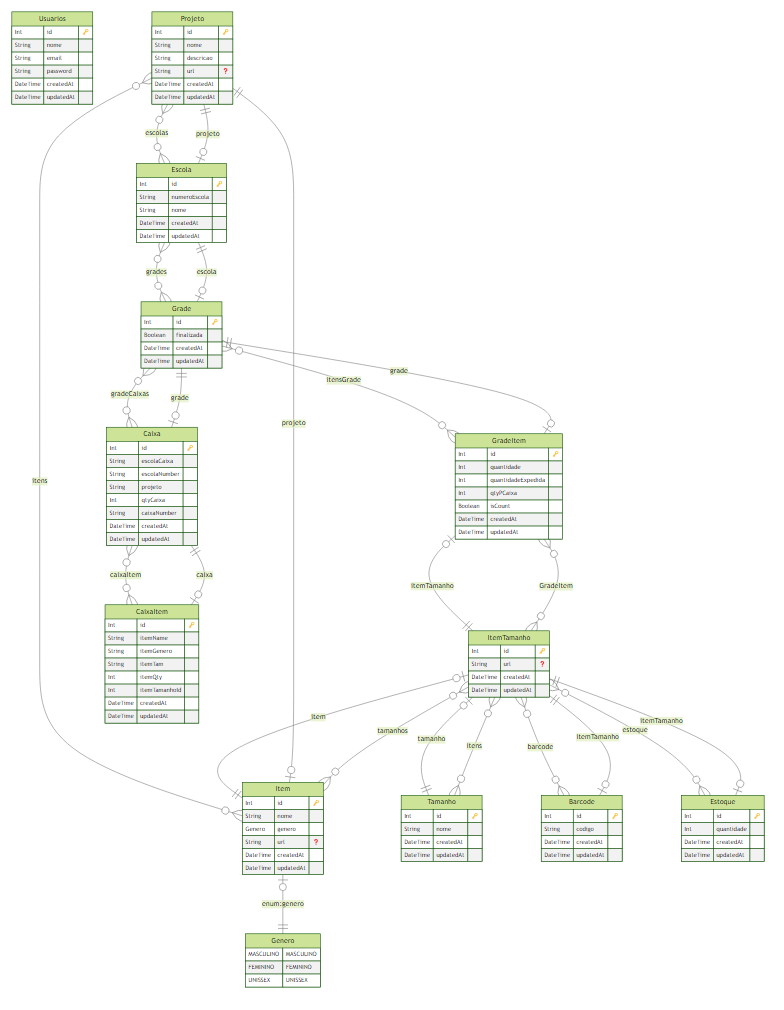
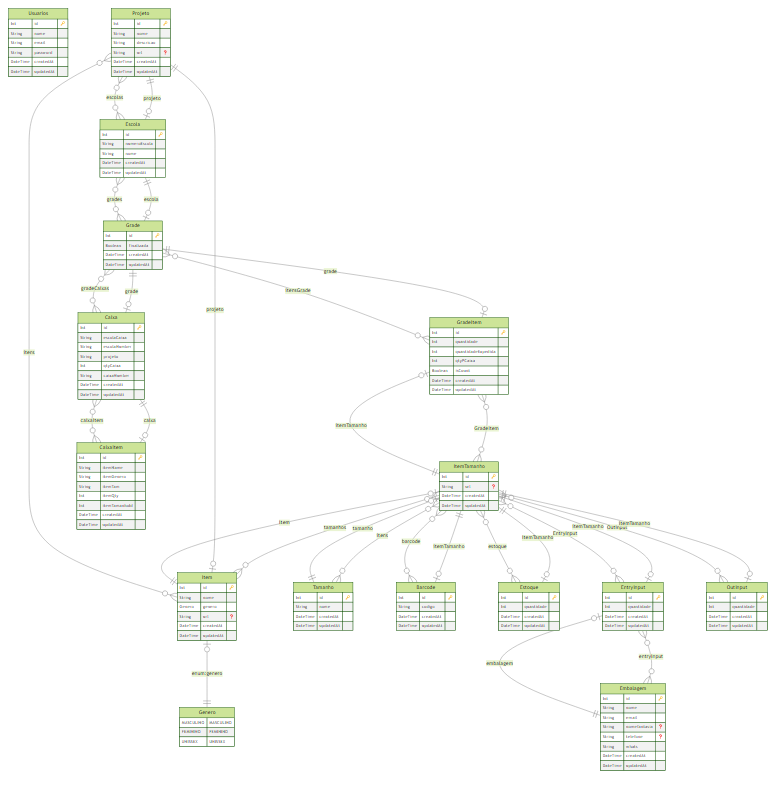
071120242

diff --git a/core/interfaces/index.ts b/core/interfaces/index.ts
@@ -16,6 +16,9 @@ import FinalyGrade from "./FinalyGrade";
 import ItensProjects from "./ItensProject";
 import ProjectItems from "./ProjectItems";
 import ProjetosSimp from "./ProjetosSimp";
+import OutInput from "./OutInput";
+import EntryInput from "./EntryInput";
+import Embalagem from "./Embalagem";
 
 export type { 
     Escola,
@@ -35,5 +38,8 @@ export type {
     FinalyGrade,
     ItensProjects,
     ProjectItems,
-    ProjetosSimp
+    ProjetosSimp,
+    OutInput,
+    EntryInput,
+    Embalagem
 }

diff --git a/core/interfaces/EntryInput.ts b/core/interfaces/EntryInput.ts
@@ -1,0 +1,13 @@
+import Embalagem from "./Embalagem";
+import ItemTamanho from "./ItemTamanho";
+
+export default interface EntryInput {
+    id?: number;
+    embalagem?: Embalagem;
+    embalagemId: number;
+    itemTamanho?: ItemTamanho;
+    itemTamanhoId: number;
+    quantidade: number;
+    createdAt?: Date;
+    updatedAt?: Date;
+}

diff --git a/core/interfaces/Embalagem.ts b/core/interfaces/Embalagem.ts
@@ -1,0 +1,13 @@
+import EntryInput from "./EntryInput";
+
+export default interface Embalagem {
+    id?: number;
+    entryInput?: EntryInput[];
+    nome: string;
+    email: string;
+    nomefantasia?: string;
+    telefone?: string;
+    whats: string;
+    createdAt?: Date;
+    updatedAt?: Date;
+}

diff --git a/core/interfaces/OutInput.ts b/core/interfaces/OutInput.ts
@@ -1,0 +1,10 @@
+import ItemTamanho from "./ItemTamanho";
+
+export default interface OutInput {
+  id?: number;          
+  itemTamanho?: ItemTamanho;    
+  itemTamanhoId: number; 
+  quantidade: number; 
+  createdAt?: Date;   
+  updatedAt?: Date;
+}
